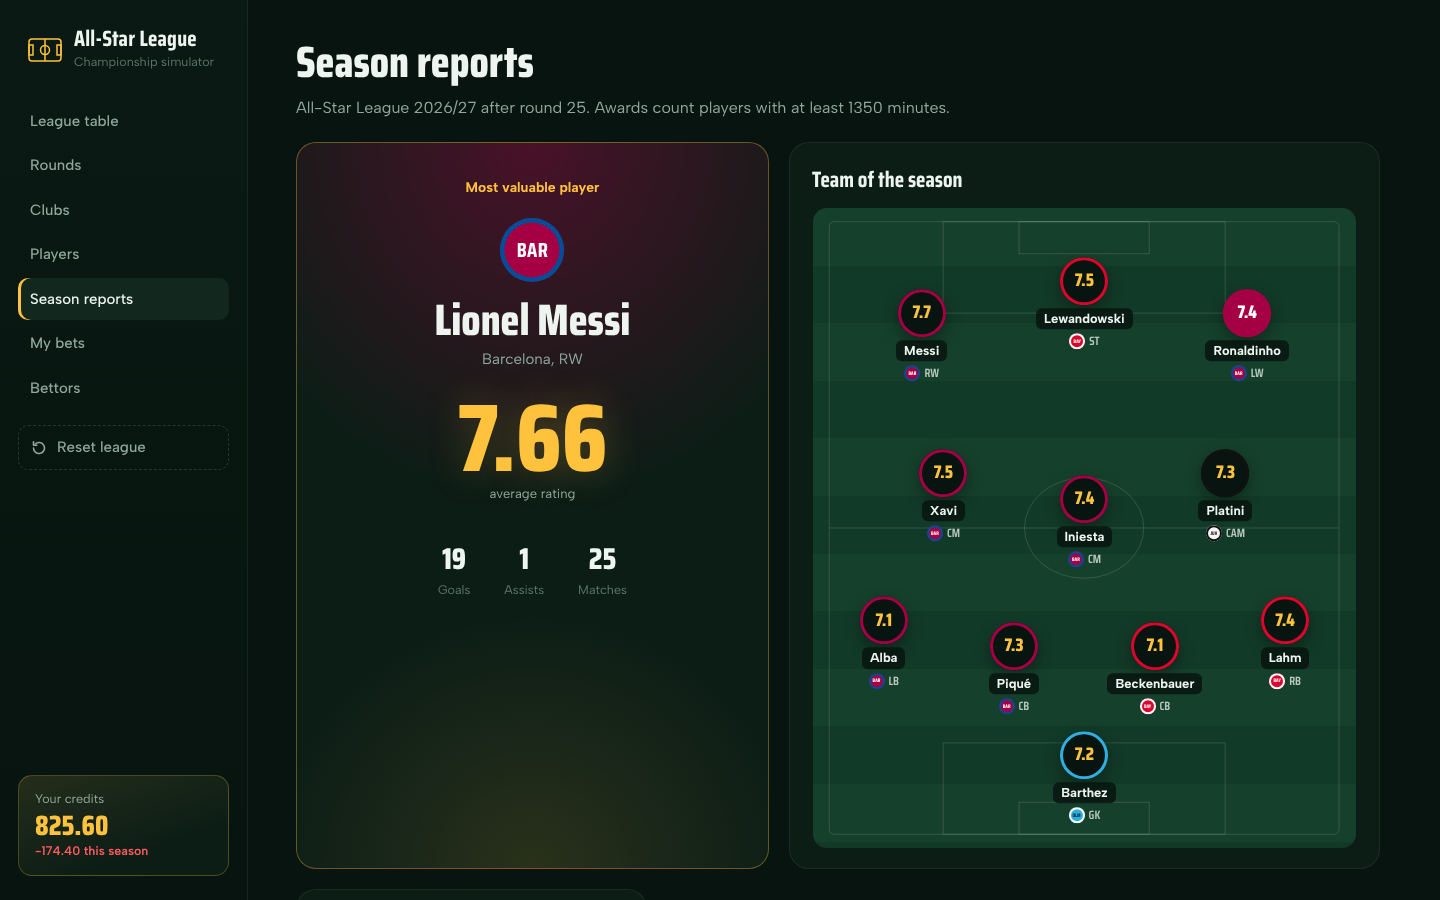
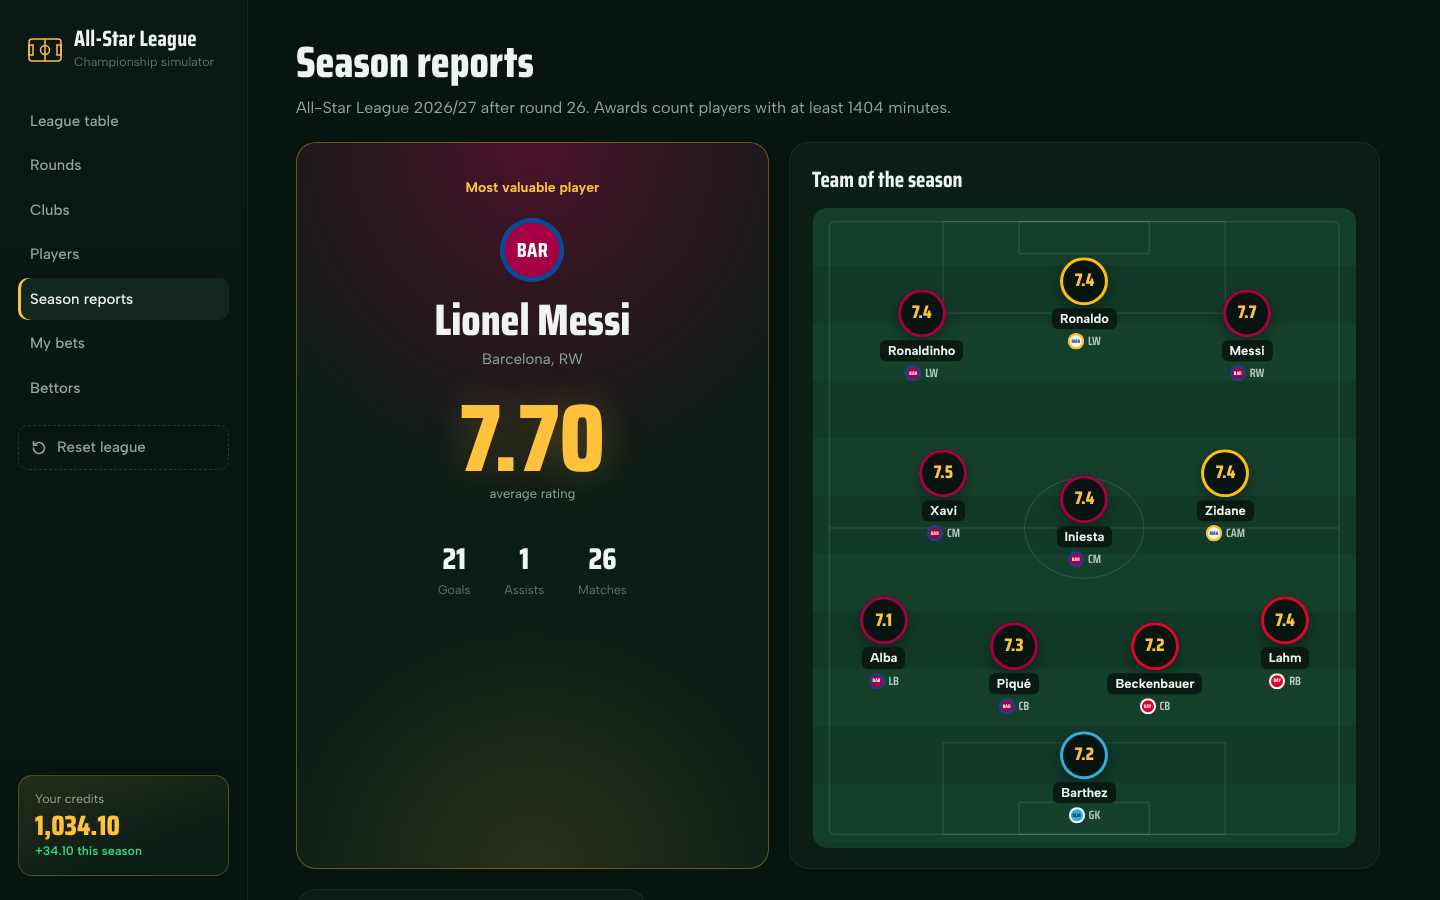
Place wingers on the correct side in team of the season

diff --git a/frontend/src/pages/ReportsPage.jsx b/frontend/src/pages/ReportsPage.jsx
@@ -16,7 +16,20 @@ const SPOTS = [
   [20, 20], [50, 15], [80, 20],
 ];
 
-function Pitch({ players }) {
+// Left to right as you look at the pitch (the attack goes up): left-sided players on the left
+const SIDE = { LB: 0, LWB: 0, LM: 0, LW: 0, RB: 2, RWB: 2, RM: 2, RW: 2 };
+const LINES = [[0, 1], [1, 5], [5, 8], [8, 11]];   // goalkeeper, defenders, midfielders, forwards
+
+// Within each line the players are sorted by side, so a right winger never ends up on the left wing
+function bySide(players) {
+  return LINES.flatMap(([from, to]) => players.slice(from, to)
+    .map((p, i) => ({ p, i }))
+    .sort((a, b) => (SIDE[a.p.position] ?? 1) - (SIDE[b.p.position] ?? 1) || a.i - b.i)
+    .map(({ p }) => p));
+}
+
+function Pitch({ players: unsorted }) {
+  const players = bySide(unsorted);
   return (
     <div className="pitch" role="img" aria-label="Team of the season on the pitch">
       <svg className="pitch__lines" viewBox="0 0 100 140" preserveAspectRatio="none" aria-hidden="true">
